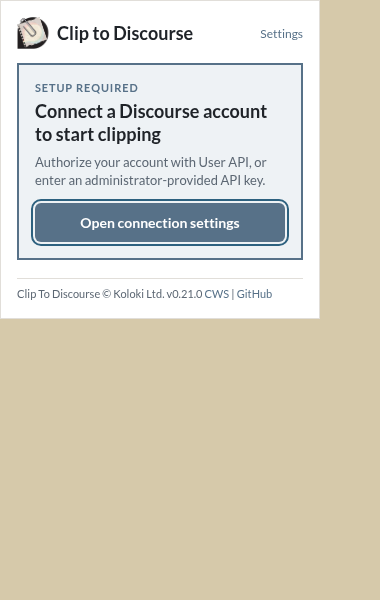
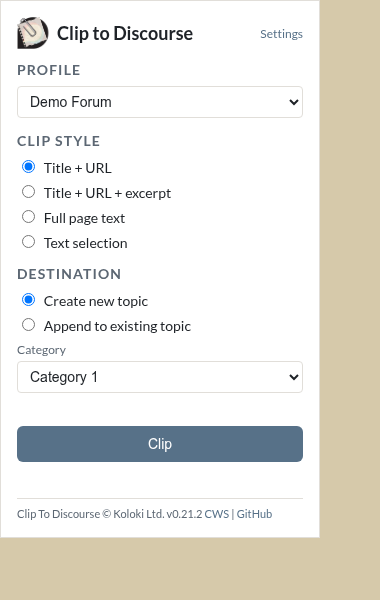
docs(readme): add Koloki branding, sponsorship, and screenshots

diff --git a/README.md b/README.md
@@ -4,12 +4,60 @@
 # Clip To Discourse Chromium Extension
 
 <p align="center">
-  <a href="https://chromewebstore.google.com/detail/clip-to-discourse/copdhiejkkdblhdcdjapcoalldkondhi">
-    <img src="https://developer.chrome.com/static/docs/webstore/branding/image/HRs9MPufa1J1h5glNhut.png" alt="Available in the Chrome Web Store">
+  <a href="https://koloki.co">
+    <img src="docs/images/koloki-logo.png" alt="Koloki - What everyone's talking about" width="298">
   </a>
 </p>
 
-This Chromium extension allows users to quickly create new topics or replies on Discourse forums by clipping content directly from web pages to the Discourse REST API. Requires Chrome 127 or later.
+<p align="center">
+  <a href="https://chromewebstore.google.com/detail/clip-to-discourse/copdhiejkkdblhdcdjapcoalldkondhi">
+    <img src="https://developer.chrome.com/static/docs/webstore/branding/image/HRs9MPufa1J1h5glNhut.png" alt="Available in the Chrome Web Store">
+  </a>
+  <a href="https://github.com/sponsors/koloki-co">
+    <img src="https://img.shields.io/badge/Sponsor-Koloki-ea4aaa?logo=githubsponsors" alt="Sponsor Koloki on GitHub">
+  </a>
+</p>
+
+Clip To Discourse is developed by [Koloki](https://koloki.co). This Chromium extension allows users to quickly create new topics or replies on Discourse forums by clipping content directly from web pages to the Discourse REST API. Requires Chrome 127 or later.
+
+## Screenshots
+
+### Clip A Page
+
+<p align="center">
+  <img src="assets/images/clipping-01-clip-to-discourse-popup.png" alt="Choosing a clip style, destination, and category in the Clip To Discourse popup" width="960">
+</p>
+
+<p align="center">
+  <img src="assets/images/clipping-02-the-clipped-page-koloki-demo-discourse.png" alt="A clipped GitHub page published as a topic on the Koloki demo Discourse forum" width="960">
+</p>
+
+### Manage Profiles And Defaults
+
+<p align="center">
+  <img src="assets/images/settings-screenshot.png" alt="Clip To Discourse settings showing profiles, authentication, and clipping defaults" width="960">
+</p>
+
+<details>
+<summary><strong>Authorize With The Discourse User API</strong></summary>
+
+<p align="center">
+  <img src="assets/images/userauth-01-authorizing-the-user-api.png" alt="Chrome requesting permission for Clip To Discourse to access the configured Discourse forum" width="960">
+</p>
+
+<p align="center">
+  <img src="assets/images/userauth-02-enter-this-code-in-discourse.png" alt="Clip To Discourse displaying the User API device authorization code" width="960">
+</p>
+
+<p align="center">
+  <img src="assets/images/userauth-03-authorize-the-extension-koloki-demo-discourse.png" alt="Approving Clip To Discourse User API access on the Koloki demo Discourse forum" width="960">
+</p>
+
+<p align="center">
+  <img src="assets/images/userauth-04-authorization-complete.png" alt="Discourse confirming that User API authorization is complete" width="960">
+</p>
+
+</details>
 
 ## Privacy
 
@@ -106,6 +154,7 @@ Example body template: `### {{title}}\n{{url}}\n\n{{excerpt}}`
 - `npm run test:watch` - Run tests in watch mode
 - `npm run build` - Full build with lint, test, bundle, and version check
 - `npm run package` - Create release zip file
+- `npm run screenshots` - Rebuild the packaged extension and regenerate its automated screenshots
 
 See [CONTRIBUTING.md](CONTRIBUTING.md) for the contributor workflow, [spec/README.md](spec/README.md) for product decisions, [spec/roadmap.md](spec/roadmap.md) for planned work, and [SECURITY.md](SECURITY.md) for private vulnerability reporting.
 
